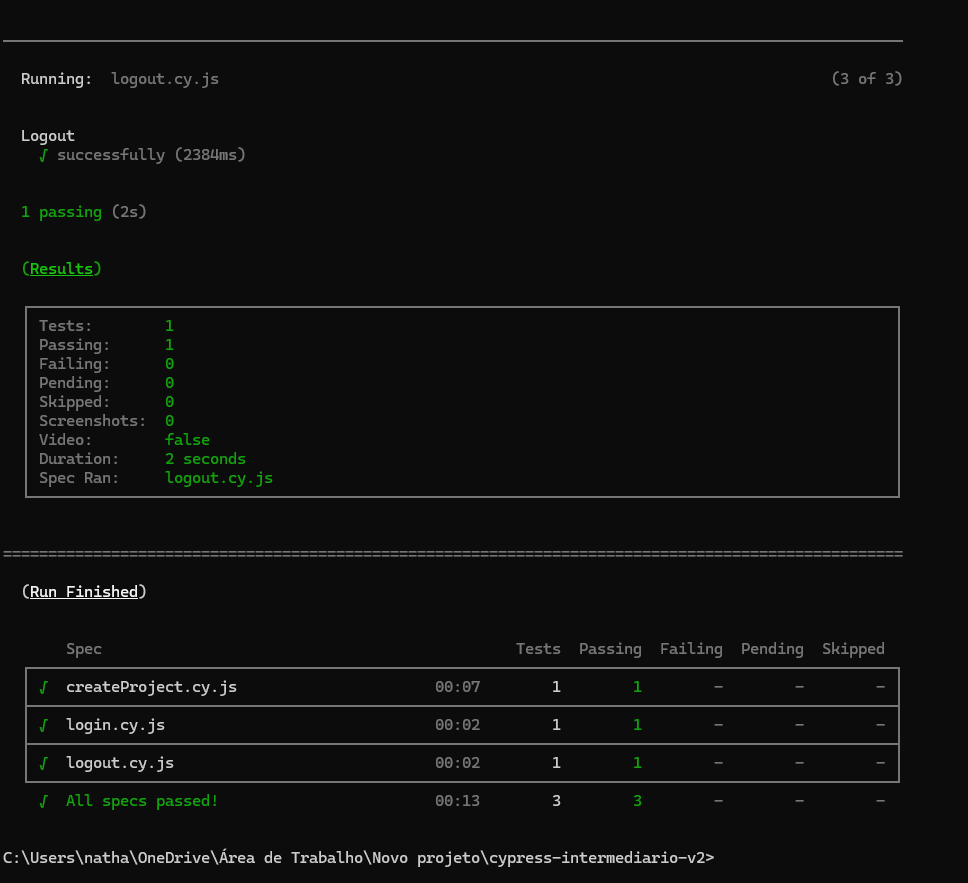
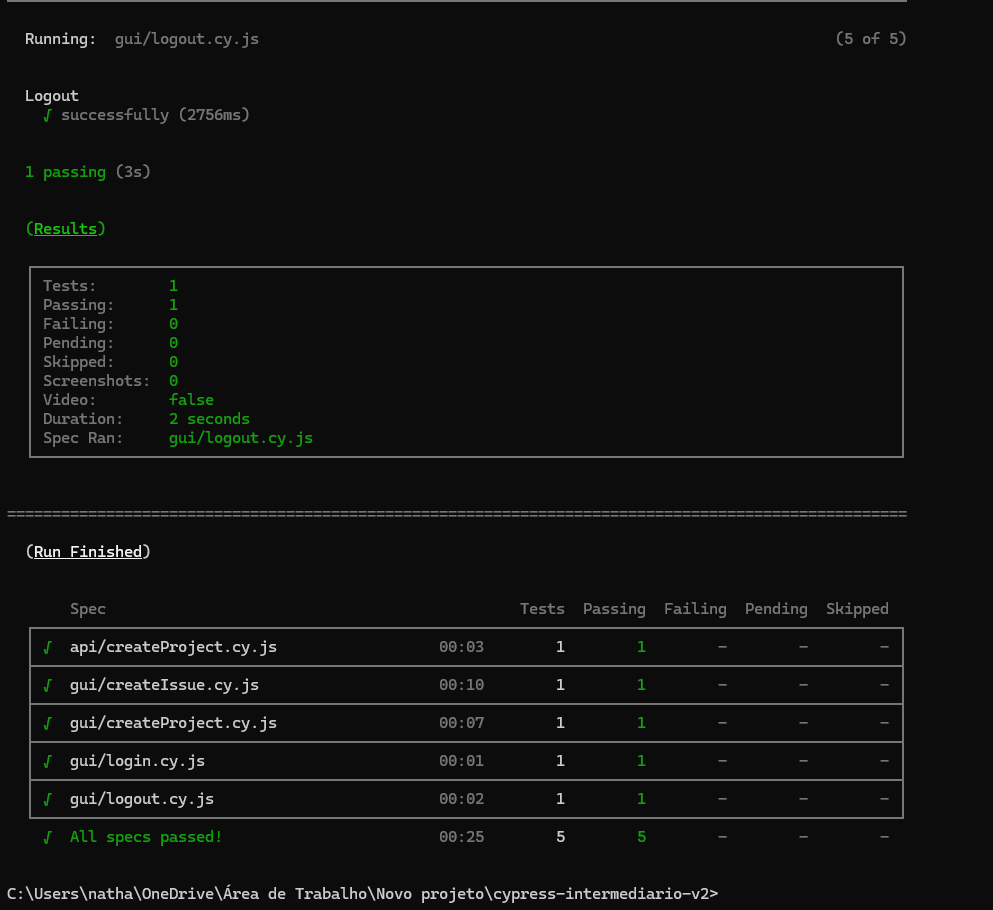
feat: adiciona testes das aulas 7 a 12 - createIssue API, gitClone CLI, setLabel e setMilestone GUI, experimentalRunAllSpecs

Changed region(s): [[0.0, 0.0306, 0.9298, 1.0], [0.8368, 0.0306, 0.9298, 0.0917]]

diff --git a/cypress/e2e/gui/setLabelOnIssue.cy.js b/cypress/e2e/gui/setLabelOnIssue.cy.js
@@ -1,0 +1,37 @@
+import { faker } from '@faker-js/faker'
+
+const options = { env: { snapshotOnly: true } }
+
+describe('Set label on issue', options, () => {
+  const issue = {
+    title: `issue-${faker.datatype.uuid()}`,
+    description: faker.random.words(3),
+    project: {
+      name: `project-${faker.datatype.uuid()}`,
+      description: faker.random.words(5)
+    }
+  }
+
+  const label = {
+    name: `label-${faker.random.word()}`,
+    color: '#ffaabb'
+  }
+
+  beforeEach(() => {
+    cy.api_deleteProjects()
+    cy.login()
+    cy.api_createIssue(issue)
+      .then(response => {
+        cy.api_createLabel(response.body.project_id, label)
+        cy.visit(`${Cypress.env('user_name')}/${issue.project.name}/issues/${response.body.iid}`)
+      })
+  })
+
+  it('successfully', () => {
+    cy.gui_setLabelOnIssue(label)
+
+    cy.get('.qa-labels-block').should('contain', label.name)
+    cy.get('.qa-labels-block span')
+      .should('have.attr', 'style', `background-color: ${label.color}; color: #333333;`)
+  })
+})

diff --git a/cypress/support/api_commands.js b/cypress/support/api_commands.js
@@ -30,3 +30,39 @@ Cypress.Commands.add('api_deleteProjects', () => {
     }))
   )
 })
+
+Cypress.Commands.add('api_createLabel', (projectId, label) => {
+  cy.request({
+    method: 'POST',
+    url: `/api/v4/projects/${projectId}/labels`,
+    body: {
+      name: label.name,
+      color: label.color
+    },
+    headers: { Authorization: accessToken },
+  })
+})
+
+Cypress.Commands.add('api_createIssue', issue => {
+  cy.api_createProject(issue.project)
+    .then(response => {
+      cy.request({
+        method: 'POST',
+        url: `/api/v4/projects/${response.body.id}/issues`,
+        body: {
+          title: issue.title,
+          description: issue.description
+        },
+        headers: { Authorization: accessToken },
+      })
+    })
+})
+
+Cypress.Commands.add('api_createMilestone', (projectId, milestone) => {
+  cy.request({
+    method: 'POST',
+    url: `/api/v4/projects/${projectId}/milestones`,
+    body: { title: milestone.title },
+    headers: { Authorization: accessToken },
+  })
+})

diff --git a/cypress/e2e/gui/setMilestoneOnIssue.cy.js b/cypress/e2e/gui/setMilestoneOnIssue.cy.js
@@ -1,0 +1,34 @@
+import { faker } from '@faker-js/faker'
+
+const options = { env: { snapshotOnly: true } }
+
+describe('Set milestone on issue', options, () => {
+  const issue = {
+    title: `issue-${faker.datatype.uuid()}`,
+    description: faker.random.words(3),
+    project: {
+      name: `project-${faker.datatype.uuid()}`,
+      description: faker.random.words(5)
+    }
+  }
+
+  const milestone = {
+    title: `milestone-${faker.random.word()}`
+  }
+
+  beforeEach(() => {
+    cy.api_deleteProjects()
+    cy.login()
+    cy.api_createIssue(issue)
+      .then(response => {
+        cy.api_createMilestone(response.body.project_id, milestone)
+        cy.visit(`${Cypress.env('user_name')}/${issue.project.name}/issues/${response.body.iid}`)
+      })
+  })
+
+  it('successfully', () => {
+    cy.gui_setMilestoneOnIssue(milestone)
+
+    cy.get('.block.milestone').should('contain', milestone.title)
+  })
+})

diff --git a/cypress/e2e/api/createIssue.cy.js b/cypress/e2e/api/createIssue.cy.js
@@ -1,0 +1,23 @@
+import { faker } from '@faker-js/faker'
+
+describe('Create issue', () => {
+  beforeEach(() => cy.api_deleteProjects())
+
+  it('successfully', () => {
+    const issue = {
+      title: `issue-${faker.datatype.uuid()}`,
+      description: faker.random.words(3),
+      project: {
+        name: `project-${faker.datatype.uuid()}`,
+        description: faker.random.words(5)
+      }
+    }
+
+    cy.api_createIssue(issue)
+      .then(response => {
+        expect(response.status).to.equal(201)
+        expect(response.body.title).to.equal(issue.title)
+        expect(response.body.description).to.equal(issue.description)
+      })
+  })
+})

diff --git a/cypress/e2e/cli/gitClone.cy.js b/cypress/e2e/cli/gitClone.cy.js
@@ -1,0 +1,21 @@
+import { faker } from '@faker-js/faker'
+
+describe('git clone', () => {
+  const project = {
+    name: `project-${faker.datatype.uuid()}`,
+    description: faker.random.words(5)
+  }
+
+  beforeEach(() => {
+    cy.api_deleteProjects()
+    cy.api_createProject(project)
+  })
+
+  it('successfully', () => {
+    cy.cloneViaSSH(project)
+
+    cy.readFile(`cypress/downloads/${project.name}/README.md`)
+      .should('contain', `# ${project.name}`)
+      .and('contain', project.description)
+  })
+})

diff --git a/cypress/support/gui_commands.js b/cypress/support/gui_commands.js
@@ -51,3 +51,14 @@ Cypress.Commands.add('gui_createIssue', issue => {
   cy.get('.qa-issuable-form-description').type(issue.description)
   cy.contains('Submit issue').click()
 })
+
+Cypress.Commands.add('gui_setLabelOnIssue', label => {
+  cy.get('.qa-edit-link-labels').click()
+  cy.contains(label.name).click()
+  cy.get('body').click()
+})
+
+Cypress.Commands.add('gui_setMilestoneOnIssue', milestone => {
+  cy.get('.block.milestone .edit-link').click()
+  cy.contains(milestone.title).click()
+})

diff --git a/cypress/support/cli_commands.js b/cypress/support/cli_commands.js
@@ -1,0 +1,5 @@
+Cypress.Commands.add('cloneViaSSH', project => {
+  const domain = Cypress.config('baseUrl').replace('http://', '')
+
+  cy.exec(`cd cypress/downloads/ && git clone git@${domain}:${Cypress.env('user_name')}/${project.name}.git`)
+})

diff --git a/cypress.config.js b/cypress.config.js
@@ -7,6 +7,7 @@ module.exports = defineConfig({
       hideCredentials: true,
       requestMode: true,
     },
+    experimentalRunAllSpecs: true,
   },
   fixturesFolder: false,
   video: false,

diff --git a/cypress/support/e2e.js b/cypress/support/e2e.js
@@ -1,4 +1,5 @@
 import 'cypress-plugin-api'
 
 import './api_commands'
+import './cli_commands'
 import './gui_commands'

diff --git a/README.md b/README.md
@@ -86,13 +86,23 @@ npx cypress open
 ```
 cypress/
 ├── e2e/
+│   ├── api/
+│   │   ├── createProject.cy.js  # Testa a criação de projeto via API
+│   │   └── createIssue.cy.js    # Testa a criação de issue via API
+│   ├── cli/
+│   │   └── gitClone.cy.js       # Testa o git clone via SSH
 │   └── gui/
-│       ├── login.cy.js          # Testa o login via GUI
-│       ├── logout.cy.js         # Testa o logout via GUI
-│       └── createProject.cy.js  # Testa a criação de projeto via GUI
+│       ├── login.cy.js              # Testa o login via GUI
+│       ├── logout.cy.js             # Testa o logout via GUI
+│       ├── createProject.cy.js      # Testa a criação de projeto via GUI
+│       ├── createIssue.cy.js        # Testa a criação de issue via GUI
+│       ├── setLabelOnIssue.cy.js    # Testa a adição de label em issue via GUI
+│       └── setMilestoneOnIssue.cy.js # Testa a adição de milestone em issue via GUI
 ├── support/
 │   ├── e2e.js                   # Arquivo de suporte principal
-│   └── gui_commands.js          # Comandos customizados do Cypress
+│   ├── api_commands.js          # Comandos customizados de API
+│   ├── cli_commands.js          # Comandos customizados de CLI
+│   └── gui_commands.js          # Comandos customizados de GUI
 └── downloads/                   # Pasta para downloads dos testes
 cypress.config.js                # Configurações do Cypress
 cypress.env.json.example         # Exemplo de variáveis de ambiente
@@ -107,6 +117,10 @@ cypress.env.json.example         # Exemplo de variáveis de ambiente
 | Criação de projeto | GUI | `createProject.cy.js` |
 | Criação de issue | GUI | `createIssue.cy.js` |
 | Criação de projeto | API | `api/createProject.cy.js` |
+| Criação de issue | API | `api/createIssue.cy.js` |
+| Adição de label em issue | GUI + API | `gui/setLabelOnIssue.cy.js` |
+| Adição de milestone em issue | GUI + API | `gui/setMilestoneOnIssue.cy.js` |
+| Git clone via SSH | CLI | `cli/gitClone.cy.js` |
 
 ## Evidências de execução
 
@@ -125,8 +139,34 @@ cypress.env.json.example         # Exemplo de variáveis de ambiente
 ### Criação de projeto via API - All specs passed!
 ![createProject-api](docs/createProject-api-passed.png)
 
-### Todos os testes (5 de 5) - All specs passed!
-![all-tests](docs/all-tests-passed.png)
+### Criação de issue via API - All specs passed!
+![createIssue-api](docs/createIssue-api-passed.png)
+
+### Adição de label em issue - All specs passed!
+![setLabelOnIssue](docs/setLabelOnIssue-passed.png)
+
+### Adição de milestone em issue - All specs passed!
+![setMilestoneOnIssue](docs/setMilestoneOnIssue-passed.png)
+
+### Git clone via SSH - All specs passed!
+![gitClone](docs/gitClone-passed.png)
+
+### Todos os testes (9 de 9) - All specs passed!
+
+https://github.com/nathalyamarianosilva-ship-it/cypress-intermediario/blob/main/docs/all-tests-passed.mp4
+
+| Spec | Tests | Passing | Duration |
+|---|---|---|---|
+| cli/gitClone.cy.js | 1 | 1 | 00:04 |
+| api/createIssue.cy.js | 1 | 1 | 00:03 |
+| api/createProject.cy.js | 1 | 1 | 00:02 |
+| gui/createIssue.cy.js | 1 | 1 | 00:10 |
+| gui/createProject.cy.js | 1 | 1 | 00:08 |
+| gui/login.cy.js | 1 | 1 | 00:02 |
+| gui/logout.cy.js | 1 | 1 | 00:02 |
+| gui/setLabelOnIssue.cy.js | 1 | 1 | 00:08 |
+| gui/setMilestoneOnIssue.cy.js | 1 | 1 | 00:05 |
+| **Total** | **9** | **9** | **00:47** |
 
 ## Boas práticas aplicadas
 
@@ -134,7 +174,9 @@ cypress.env.json.example         # Exemplo de variáveis de ambiente
 - **Validação de sessão** para garantir independência entre testes
 - **Dados dinâmicos** com `faker.js` para evitar conflitos
 - **Comandos customizados** para reuso de código
-- **Variáveis de ambiente** para proteger dados sensíveis
+- **Limpeza de dados** com `api_deleteProjects()` no `beforeEach` para garantir estado limpo
+- **Otimização de pré-condições** usando API para criar recursos que não são o foco do teste
+- **`cy.exec()`** para executar comandos a nível de sistema operacional (git clone via SSH)
 
 ---
 
